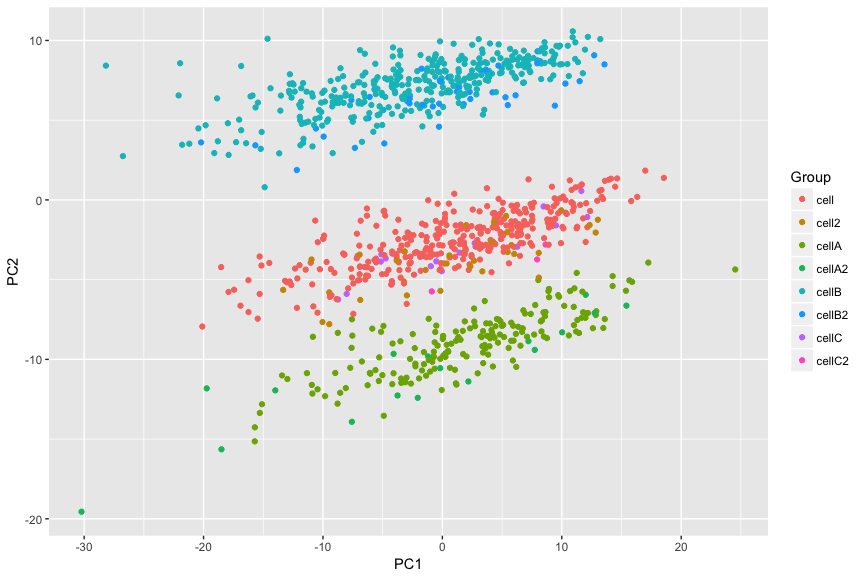
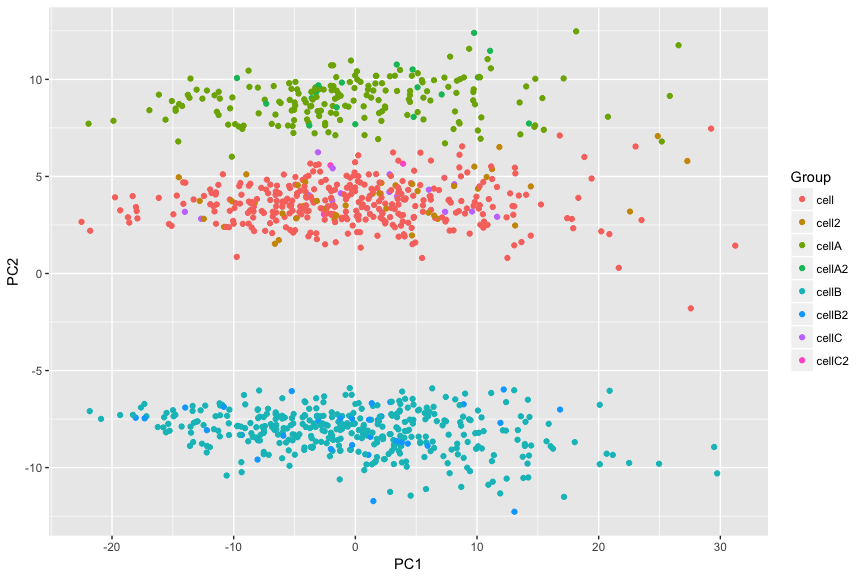
update vignette
New distribution comparison plots & mean definition.
Also add seeds so images files stay the same.

diff --git a/vignettes/vignette.md b/vignettes/vignette.md
@@ -1,15 +1,19 @@
 dropsim: Single Cell RNA-seq Simulator
 ================
 Daniel Wells
-2017-06-08
+2018-01-10
 
 Model Description
 -----------------
 
 This is a package for simulating single cell RNAseq data. The target is a digital gene expression matrix counts matrix C (N cells by L genes). If cells, genes, and cell types are indexed by n, l, and t respectively then:
 
-$C\_{nl} = \\mathit{Poisson}\\big(  \\frac{e\_{t(n)l}}{\\sum\_{l=1}^{L} e\_{t(n)l}} \\
- s\_n  \\big)$
+$$
+C\_{nl} = \\mathit{Poisson}\\big(
+          \\frac{e\_{t(n)l}}{\\sum\_{l=1}^{L} e\_{t(n)l}} \\
+          s\_n
+          \\big)
+$$
 
 Where e is the true baseline expression and s is the library size, each of which are drawn from a lognormal distribution. A realistic differential expression profile between cell types can be simulated by multiplying the baseline expression values e by a log-logistic distribution.
 
@@ -18,15 +22,16 @@ Simple Example
 
 ``` r
 library(dropsim)
+set.seed(42)
 
 new_parameters <- new("dropsim_parameters",
                       n_genes = 15000L,
                       n_cells = 1000L,
-                      gene_meanlog = -2.54,
-                      gene_sdlog = 2.36,
-                      library_meanlog = 9.57,
-                      library_sdlog = 0.36,
-                      groups = data.table(
+                      gene_meanlog = -12,
+                      gene_sdlog = 2.5,
+                      library_meanlog = 10,
+                      library_sdlog = 0.4,
+                      groups = data.table::data.table(
                         scale = c(0.06,0.06,0.06,0.04),
                         cells = list(1:200, 201:600, 601:620, sample.int(1000, size=100, replace = TRUE)),
                         names = c("A","B","C","2")
@@ -34,15 +39,15 @@ new_parameters <- new("dropsim_parameters",
                       )
 
 # Simulate counts
-dge <- simulateDGE(new_parameters)$counts
+dge <- simulateDGE(new_parameters, seed = 42)$counts
 
 str(as.matrix(dge))
 ```
 
-    ##  num [1:15000, 1:1000] 0 0 0 0 0 0 0 0 1 0 ...
+    ##  num [1:15000, 1:1000] 1 0 2 0 0 0 2 0 6 0 ...
     ##  - attr(*, "dimnames")=List of 2
     ##   ..$ gene: chr [1:15000] "1" "2" "3" "4" ...
-    ##   ..$ cell: chr [1:1000] "cellA" "cellA" "cellA" "cellA" ...
+    ##   ..$ cell: chr [1:1000] "cellA2" "cellA2" "cellA" "cellA2" ...
 
 Summary Plots
 -------------
@@ -83,7 +88,7 @@ Comparisons
 If we have multiple datasets we can do comparisons
 
 ``` r
-summarised_dge_2 <- summariseDGE(simulateDGE(dropsim_parameters())$counts, name="Simulation 2")
+summarised_dge_2 <- summariseDGE(simulateDGE(dropsim_parameters(), seed=42)$counts, name="Simulation 2")
 dispersionDGE(rbind(summarised_dge, summarised_dge_2)) + facet_wrap(~Name)
 ```
 
@@ -113,19 +118,19 @@ print(new_parameters)
     ## 
     ## Slot "gene_meanlog":
     ##   meanlog 
-    ## -7.431332 
+    ## -12.67007 
     ## 
     ## Slot "gene_sdlog":
     ##    sdlog 
-    ## 2.265403 
+    ## 2.371764 
     ## 
     ## Slot "library_meanlog":
     ##  meanlog 
-    ## 9.560845 
+    ## 10.02094 
     ## 
     ## Slot "library_sdlog":
     ##     sdlog 
-    ## 0.3729606 
+    ## 0.4053606 
     ## 
     ## Slot "groups":
     ## Empty data.table (0 rows) of 3 cols: scale,cells,names
